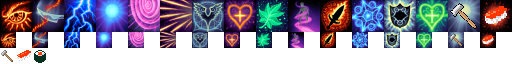
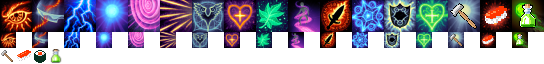
Add Ana, the acid thrower
- New hero Ana: black glasses and long blonde curls (LPC: female body,
  Curly long blonde hair, black glasses, green tee, charcoal trousers),
  "Ow" hurt voice from bart's CC-BY voice pack
- New weapon Acid Flask: lobs flasks that shatter in a splash and leave
  a bubbling puddle that burns anything standing in it every 0.3s; more
  flasks, wider puddles and longer burns as it levels; offered to every
  hero like the other weapons
- Skill icon: CC0 flask filled with acid over Bjerk's acid-fireball
  background; the flask is also the thrown projectile
- Hero select: up/down now stay in the same column and wrap within it,
  so the short last row works with nine heroes

Claude-Session: https://claude.ai/code/session_01PMVu6fudvx91nmgD8yVYSR

diff --git a/game/game.js b/game/game.js
@@ -118,7 +118,7 @@ const sndHurt = () => sfx(110, 0.2, 'sawtooth', 0.08, -40);
 
 // Sampled hurt voices, one per hero (Biski meows) — see assets/CREDITS.md.
 // Decoded once audio is unlocked; until then (or on file:// pages) the synth thud stands in.
-const VOICE_FILES = ['visor', 'wildcat', 'skywitch', 'ace', 'mender', 'biski', 'neil', 'zoe'];
+const VOICE_FILES = ['visor', 'wildcat', 'skywitch', 'ace', 'mender', 'biski', 'neil', 'zoe', 'ana'];
 const SFX_FILES = ['banshee-scream', 'butcher-roar'];   // assets/sfx/<name>.mp3
 const voiceBuf = {};
 let voicesRequested = false, lastVoiceT = -9;
@@ -929,7 +929,7 @@ function pips(x, y, filled, next = filled, size = 1) {
 const ASSET_FILES = ['warrior', 'wizard', 'ranger', 'rogue', 'cleric',
   'slime', 'goblin', 'skeleton', 'orc', 'minotaur', 'tiles', 'biski',
   'bat', 'imp', 'scarab', 'shaman', 'hound', 'guard', 'knight', 'skills',
-  'assassin', 'mech', 'burger', 'lizdoc', 'feral', 'neil', 'zoe', 'crypt', 'butcher', 'banshee', 'golem',
+  'assassin', 'mech', 'burger', 'lizdoc', 'feral', 'neil', 'zoe', 'ana', 'crypt', 'butcher', 'banshee', 'golem',
   'desert', 'fly', 'maggot', 'lizard', 'orb',
   'jungle', 'snake', 'treant', 'plant', 'mosquito', 'monkey', 'frog',
   'ocean', 'axolotl', 'piranha', 'jelly', 'crab', 'shark', 'squid', 'eel', 'kraken'];
@@ -1066,6 +1066,7 @@ const SHEETS = {
   // LPC-generator heroes, downscaled to 40px cells (see assets/CREDITS.md)
   neil:     { file: 'neil',       size: 40, rows: STD, frames: { idle: 1, walk: 8, attack: 7, death: 6 } },
   zoe:      { file: 'zoe',        size: 40, rows: STD, frames: { idle: 1, walk: 8, attack: 6, death: 1 } },
+  ana:      { file: 'ana',        size: 40, rows: STD, frames: { idle: 1, walk: 8, attack: 7, death: 6 } },
   butcher:  { file: 'butcher',  size: 96, rows: STD, frames: { idle: 1, walk: 8, attack: 10, death: 6 } },
   banshee:  { file: 'banshee',  size: 40, rows: STD, frames: { idle: 1, walk: 4, attack: 4, death: 2 } },
   golem:    { file: 'golem',    size: 48, rows: STD, frames: { idle: 1, walk: 7, attack: 7, death: 7 } },
@@ -1094,9 +1095,9 @@ const SHEETS = {
 };
 // painted skill icons (assets/skills.png): row 0 = 32x32, row 1 = 16x16, in this order
 const SKILL_ORDER = ['optic', 'claws', 'storm', 'orbs', 'nova', 'cards', 'boots', 'vitality',
-  'regen', 'magnet', 'power', 'focus', 'plating', 'heal', 'hammer', 'sushi'];
-// projectile sprites on the sheet's bottom row (y=48): hammer 14px, nigiri 16px, maki 16px
-const PROJ = { hammer: [0, 49, 14, 14], nigiri: [16, 48, 16, 16], maki: [32, 48, 16, 16] };
+  'regen', 'magnet', 'power', 'focus', 'plating', 'heal', 'hammer', 'sushi', 'acid'];
+// projectile sprites on the sheet's bottom row (y=48): hammer 14px, nigiri 16px, maki 16px, acid flask 16px
+const PROJ = { hammer: [0, 49, 14, 14], nigiri: [16, 48, 16, 16], maki: [32, 48, 16, 16], flask: [48, 48, 16, 16] };
 // draw a projectile centred on (x, y), turned in quarter steps so pixels stay square
 function drawProj(key, x, y, quarter = 0) {
   if (!SPR.skills) return;
@@ -1652,6 +1653,25 @@ const WEAPON_DEFS = {
       return true;
     },
   },
+  acid: {
+    name: 'Acid Flask',
+    desc: 'Lobs flasks of acid that shatter into burning puddles.',
+    cd: 1.6,
+    fire(w) {
+      const targets = nearestEnemies(6);
+      if (!targets.length) return false;
+      const n = 1 + Math.floor(w.level / 2) + ampN(); // 1,2,2,3,3
+      for (let i = 0; i < n; i++) {
+        const t = targets[i % targets.length];
+        bullets.push({ kind: 'acid', sx: player.x, sy: player.y - 14, tx: t.x + rand(-16, 16), ty: t.y + rand(-16, 16),
+          t: 0, T: 0.5 + i * 0.08, x: player.x, y: player.y, h: 0, r: 0, life: 2,
+          dmg: (10 + w.level * 4) * player.dmgMult, aoe: (40 + w.level * 7) * amp(),
+          tick: (5 + w.level * 3) * player.dmgMult, dur: 2.2 + w.level * 0.3 });
+      }
+      sfx(700, 0.07, 'triangle', 0.03, 300);
+      return true;
+    },
+  },
   cards: {
     name: 'Kinetic Cards',
     desc: 'Charged playing cards that detonate on impact.',
@@ -1723,6 +1743,9 @@ const HEROES = [
       player.maxHp += 60; player.hp += 60; player.speed *= 1.3; player.critChance = 0.3; player.regen += 1.5;
       player.armor += 2; player.dmgMult *= 1.75; player.cdMult *= 0.7; player.magnetR *= 1.6;
     } },
+  { id: 'ana', name: 'Ana', sprite: 'ana', color: '#92FF24',
+    tag: 'Acid thrower', desc: 'Black glasses, a mane of blonde curls and a bag of acid flasks. They shatter into puddles that eat anything standing in them.',
+    weapon: 'acid', mods: () => { player.maxHp += 10; player.hp += 10; player.magnetR *= 1.15; player.cdMult *= 0.95; } },
 ];
 // Read each hero's real stats by running their mods on a scratch copy of the
 // base player — the select screen can never disagree with the game.
@@ -2605,8 +2628,13 @@ function uiKey(k) {
     const n = HEROES.length;
     if (k === 'arrowleft' || k === 'a') { selIndex = (selIndex + n - 1) % n; sndMove(); }
     else if (k === 'arrowright' || k === 'd') { selIndex = (selIndex + 1) % n; sndMove(); }
-    else if (k === 'arrowup' || k === 'w') { selIndex = (selIndex + n - SEL_COLS) % n; sndMove(); }
-    else if (k === 'arrowdown' || k === 's') { selIndex = (selIndex + SEL_COLS) % n; sndMove(); }
+    // up/down stay in the same column and wrap within it (the last row may be short)
+    else if (k === 'arrowup' || k === 'w') {
+      const c = selIndex % SEL_COLS;
+      selIndex = selIndex - SEL_COLS >= 0 ? selIndex - SEL_COLS : c + SEL_COLS * Math.floor((n - 1 - c) / SEL_COLS);
+      sndMove();
+    }
+    else if (k === 'arrowdown' || k === 's') { selIndex = selIndex + SEL_COLS < n ? selIndex + SEL_COLS : selIndex % SEL_COLS; sndMove(); }
     else if (OK_KEYS.has(k)) startGame(HEROES[selIndex]);
     return;
   }
@@ -2864,7 +2892,7 @@ function update(dt) {
   // bullets
   for (let i = bullets.length - 1; i >= 0; i--) {
     const b = bullets[i];
-    if (b.kind === 'hammer' || b.kind === 'sushi') {
+    if (b.kind === 'hammer' || b.kind === 'sushi' || b.kind === 'acid') {
       if (updateSpecialBullet(b, dt)) { bullets[i] = bullets[bullets.length - 1]; bullets.pop(); }
       continue;
     }
@@ -3281,6 +3309,16 @@ function update(dt) {
   for (let i = effects.length - 1; i >= 0; i--) {
     const fx = effects[i];
     fx.life -= dt;
+    if (fx.type === 'acidpool') {
+      fx.tickT -= dt;
+      if (fx.tickT <= 0) {
+        fx.tickT = 0.3;
+        for (let j = enemies.length - 1; j >= 0; j--) {
+          const e = enemies[j];
+          if (e && !e.fly && dist2(e.x, e.y, fx.x, fx.y) < (fx.radius + e.r * 0.5) ** 2) damageEnemy(e, fx.dmg);
+        }
+      }
+    }
     if (fx.type === 'shock' && !fx.hit) {   // a rolling ring: it only hurts where the wavefront is
       const r = fx.radius * (1 - fx.life / fx.maxLife), dd = Math.hypot(player.x - fx.x, player.y - fx.y);
       if (Math.abs(dd - r) < 18) { fx.hit = true; hurtPlayer(fx.dmg); }
@@ -3325,12 +3363,24 @@ function updateSpecialBullet(b, dt) {
     }
     return b.t >= b.life;
   }
-  // sushi
+  // sushi + acid flasks: lobbed in an arc
   const p = Math.min(1, b.t / b.T);
   b.x = b.sx + (b.tx - b.sx) * p;
   b.y = b.sy + (b.ty - b.sy) * p;
   b.h = Math.sin(p * Math.PI) * (36 + Math.hypot(b.tx - b.sx, b.ty - b.sy) * 0.15);
   if (p < 1) return false;
+  if (b.kind === 'acid') {   // the flask shatters: a splash, then a puddle that keeps eating whatever stands in it
+    burstParticles(b.x, b.y, '#B6FF49', 8);
+    burstParticles(b.x, b.y, '#DBFFFF', 3);                // glass
+    for (let j = enemies.length - 1; j >= 0; j--) {
+      const e = enemies[j];
+      if (e && dist2(e.x, e.y, b.x, b.y) < (b.aoe * 0.7 + e.r) ** 2) damageEnemy(e, b.dmg);
+    }
+    for (const bz of state.brazList || []) if (dist2(bz.x, bz.y, b.x, b.y) < (b.aoe + 14) ** 2) damageBrazier(bz, 12);
+    effects.push({ type: 'acidpool', x: b.x, y: b.y, radius: b.aoe, life: b.dur, maxLife: b.dur, dmg: b.tick, tickT: 0 });
+    sfx(900, 0.12, 'square', 0.03, -700); sfx(160, 0.3, 'sawtooth', 0.03, -80);   // smash + hiss
+    return true;
+  }
   effects.push({ type: 'boom', x: b.x, y: b.y, radius: b.aoe, life: 0.3, maxLife: 0.3 });
   burstParticles(b.x, b.y, '#FFFFFF', 6);               // rice
   burstParticles(b.x, b.y, b.maki ? '#24DB49' : '#FF6D49', 5);
@@ -3631,6 +3681,12 @@ function renderWorld() {
       drawProj('hammer', x, y, Math.floor(b.t * 14));
       continue;
     }
+    if (b.kind === 'acid') {     // lobbed flask, tumbling, with its shadow on the floor
+      const hy = Math.round(b.h / PX);
+      rect(x - 3, y + 1, 7, 2, 'rgba(0,0,0,0.4)');
+      drawProj('flask', x, y - hy, Math.floor(b.t * 12));
+      continue;
+    }
     if (b.kind === 'sushi') {    // lobbed: shadow on the floor, sushi up in the arc
       const hy = Math.round(b.h / PX);
       rect(x - 3, y + 1, 7, 2, 'rgba(0,0,0,0.4)');
@@ -3754,6 +3810,26 @@ function renderWorld() {
       const r = (fx.radius / PX) * (1 - p);
       ring(cx, cy, r, p > 0.3 ? C.white : '#FFB66D');
       ring(cx, cy, Math.max(1, r - 3), '#DB6D24');
+    } else if (fx.type === 'acidpool') {   // Ana's acid: a bright, bubbling puddle that fades at the end
+      if (p < 0.15 && blink(15)) continue;
+      const rx = Math.round(fx.radius / PX), ry = Math.round(rx * 0.55);
+      ctx.save();
+      ctx.globalCompositeOperation = 'lighter';
+      for (let k = 0; k < 2; k++) {
+        ctx.fillStyle = k ? 'rgba(146,255,36,0.22)' : 'rgba(73,182,0,0.3)';
+        const sx = rx * (1 - k * 0.4), sy = ry * (1 - k * 0.4);
+        for (let dy = -Math.round(sy); dy <= Math.round(sy); dy++) {
+          const hw = Math.round(sx * Math.sqrt(Math.max(0, 1 - (dy / (sy + 0.5)) ** 2)));
+          ctx.fillRect(cx - hw, cy + dy, hw * 2 + 1, 1);
+        }
+      }
+      ctx.restore();
+      for (let k = 0; k < 5; k++) {   // bubbles pop up all over it
+        const ph = (uiTime * 2.2 + k * 0.37 + fx.x * 0.013) % 1;
+        if (ph > 0.6) continue;
+        const bx = cx + Math.round(Math.sin(k * 2.1 + fx.y) * rx * 0.7), by = cy + Math.round(Math.cos(k * 1.7 + fx.x) * ry * 0.6);
+        rect(bx, by - Math.round(ph * 3), ph < 0.4 ? 2 : 1, ph < 0.4 ? 2 : 1, ph < 0.3 ? '#DBFF92' : '#92FF24');
+      }
     } else if (fx.type === 'toxic') {  // poison frog's death cloud: a squat green haze with rising bubbles
       if (p < 0.15 && blink(15)) continue;
       const rx = Math.round(fx.radius / PX), ry = Math.round(rx * 0.6);

diff --git a/game/assets/CREDITS-LPC.md b/game/assets/CREDITS-LPC.md
@@ -1,4 +1,4 @@
-# LPC credits for Neil, Zoe, the Butcher and the Leaping Lizard
+# LPC credits for Neil, Zoe, Ana, the Butcher and the Leaping Lizard
 
 `neil.png`, `zoe.png` and `butcher.png` were composed with the Universal LPC Spritesheet Character Generator
 (https://github.com/LiberatedPixelCup/Universal-LPC-Spritesheet-Character-Generator), then
@@ -219,6 +219,123 @@ hair/wavy/child/walk.png
 		- Nila122
 	- Links:
 		- https://opengameart.org/content/3-hairs-for-lpc
+```
+
+## Ana
+
+Female body and head, Curly long hair (blonde), black glasses, green t-shirt, charcoal pants, black shoes.
+
+```
+body/bodies/female/walk.png
+	- Note: see details at https://opengameart.org/content/lpc-character-bases
+	- Licenses:
+		- OGA-BY 3.0
+		- CC-BY-SA 3.0
+		- GPL 3.0
+	- Authors:
+		- Benjamin K. Smith (BenCreating)
+		- bluecarrot16
+		- TheraHedwig
+		- Evert
+		- MuffinElZangano
+		- Durrani
+		- Pierre Vigier (pvigier)
+		- ElizaWy
+		- Matthew Krohn (makrohn)
+		- Johannes Sjölund (wulax)
+		- Stephen Challener (Redshrike)
+	- Links:
+		- https://opengameart.org/content/liberated-pixel-cup-lpc-base-assets-sprites-map-tiles
+		- https://opengameart.org/content/lpc-medieval-fantasy-character-sprites
+		- https://opengameart.org/content/lpc-ladies
+		- https://opengameart.org/content/lpc-7-womens-shirts
+		- https://opengameart.org/content/lpc-jump-expanded
+		- https://opengameart.org/content/lpc-be-seated
+		- https://opengameart.org/content/lpc-revised-character-basics
+		- https://gitlab.com/vagabondgame/lpc-characters
+		- https://opengameart.org/content/lpc-male-jumping-animation-by-durrani
+		- https://opengameart.org/content/lpc-runcycle-and-diagonal-walkcycle
+
+head/heads/human/female/walk.png
+	- Note: original head by Redshrike, tweaks by BenCreating, modular version by bluecarrot16
+	- Licenses:
+		- OGA-BY 3.0
+		- CC-BY-SA 3.0
+		- GPL 3.0
+	- Authors:
+		- bluecarrot16
+		- Benjamin K. Smith (BenCreating)
+		- Stephen Challener (Redshrike)
+	- Links:
+		- https://opengameart.org/content/
+		- https://opengameart.org/content/lpc-character-bases
+
+facial/glasses/glasses/adult/walk/black.png
+	- Licenses:
+		- OGA-BY 3.0
+	- Authors:
+		- ElizaWy
+	- Links:
+		- https://github.com/ElizaWy/LPC/tree/main/Characters/Head%20Accessories
+		- https://opengameart.org/content/lpc-expanded-sit-run-jump-more
+
+torso/clothes/shortsleeve/tshirt/female/walk.png
+	- Note: original by ElizaWy; spellcast/thrust/shoot/hurt/male adapted from original by JaidynReiman
+	- Licenses:
+		- OGA-BY 3.0
+	- Authors:
+		- ElizaWy
+		- JaidynReiman
+		- Stephen Challener (Redshrike)
+		- Johannes Sjölund (wulax)
+	- Links:
+		- https://opengameart.org/content/lpc-revised-character-basics
+		- https://github.com/ElizaWy/LPC/tree/main/Characters/Clothing
+		- https://opengameart.org/content/lpc-expanded-sit-run-jump-more
+		- https://opengameart.org/content/lpc-expanded-simple-shirts
+
+legs/pants/thin/walk.png
+	- Note: original male pants by wulax, edited for female by Joe White, recolors and edits to v3 base by bluecarrot16, teen legs by ElizaWy derived from base, climb/jump/run/sit/emotes/revised combat by JaidynReiman based on ElizaWy's LPC Revised
+	- Licenses:
+		- OGA-BY 3.0
+		- GPL 3.0
+		- CC-BY-SA 3.0
+	- Authors:
+		- bluecarrot16
+		- JaidynReiman
+		- ElizaWy
+		- Joe White
+		- Matthew Krohn (makrohn)
+		- Johannes Sjölund (wulax)
+		- Stephen Challener (Redshrike)
+	- Links:
+		- https://opengameart.org/content/liberated-pixel-cup-lpc-base-assets-sprites-map-tiles
+		- https://opengameart.org/content/lpc-medieval-fantasy-character-sprites
+		- http://opengameart.org/content/lpc-clothing-updates
+		- https://opengameart.org/content/lpc-expanded-pants
+
+feet/shoes/basic/thin/walk.png
+	- Note: original by wulax, edited for v3 base by bluecarrot16, Jump/Sit/Emote/Run/Revised Combat by JaidynReiman
+	- Licenses:
+		- OGA-BY 3.0
+		- CC-BY-SA 3.0
+		- GPL 3.0
+	- Authors:
+		- JaidynReiman
+		- bluecarrot16
+		- Johannes Sjölund (wulax)
+	- Links:
+		- https://opengameart.org/content/lpc-medieval-fantasy-character-sprites
+		- http://opengameart.org/content/lpc-clothing-updates
+		- https://opengameart.org/content/lpc-expanded-socks-shoes
+
+hair/curly_long/adult/walk.png
+	- Licenses:
+		- OGA-BY 3.0
+	- Authors:
+		- ElizaWy
+	- Links:
+		- https://opengameart.org/content/lpc-hair
 ```
 
 ## The Butcher

diff --git a/game/assets/CREDITS.md b/game/assets/CREDITS.md
@@ -82,29 +82,34 @@ Trimmed, pitch-adjusted for some heroes, normalised and re-encoded as MP3:
   **NocturnalVanguard**, **CC0**: https://opengameart.org/content/female-hurt-grunts-groans
 - `hurt-biski` — "Meow" by **IgnasD**, **CC0**: https://opengameart.org/content/meow
 
-## Heroes: Neil and Zoe
+## Heroes: Neil, Zoe and Ana
 
-`neil.png` and `zoe.png` are built from Liberated Pixel Cup (LPC) parts via the
+`neil.png`, `zoe.png` and `ana.png` are built from Liberated Pixel Cup (LPC) parts via the
 Universal LPC Spritesheet Character Generator (OGA-BY 3.0 / CC-BY-SA 3.0 /
-GPL 3.0 depending on part); downscaled and repacked. These two sheets are
+GPL 3.0 depending on part); downscaled and repacked. These sheets are
 therefore shared under **CC-BY-SA 3.0**. Every part's authors and links are
 listed in [`CREDITS-LPC.md`](CREDITS-LPC.md).
 
-## Blessed Hammer + Exploding Sushi art (in `skills.png`)
+## Blessed Hammer + Exploding Sushi + Acid Flask art (in `skills.png`)
 
 - Hammer — `W_Mace003` from "496 pixel art icons for medieval/fantasy RPG",
   original icons by **7Soul1**, compiled by **gnola14**, **CC0**:
   https://opengameart.org/content/496-pixel-art-icons-for-medievalfantasy-rpg
 - Nigiri and maki — "16x16px Food Items" by **Maruki**, **CC0**:
   https://opengameart.org/content/16x16px-food-items
-- Icon backgrounds — J. W. Bjerk's Painterly Spell Icons (CC-BY 3.0, above).
+- Acid flask — `I_Bottle03` from the same "496 pixel art icons" pack (**CC0**),
+  its glass filled with acid green.
+- Icon backgrounds — J. W. Bjerk's Painterly Spell Icons (CC-BY 3.0, above),
+  including `fireball-acid-2` behind the acid flask.
 
-## Voices for Neil and Zoe
+## Voices for Neil, Zoe and Ana
 
 - `hurt-neil` — thebardofblasphemy's CC0 male grunts (above).
 - `hurt-zoe` — "Ouch" from "24 Cute Fighting Game Voice Recordings" by
   **bart** (via OpenGameArt.org, http://opengameart.org), **CC-BY 3.0**:
   https://opengameart.org/content/24-cute-fighting-game-voice-recordings
+- `hurt-ana` — "Ow" from the same "24 Cute Fighting Game Voice Recordings" by
+  **bart**, **CC-BY 3.0** (trimmed, loudness-matched).
 
 ## Sanctuary: cathedral floor, props, the Butcher, banshees
 
